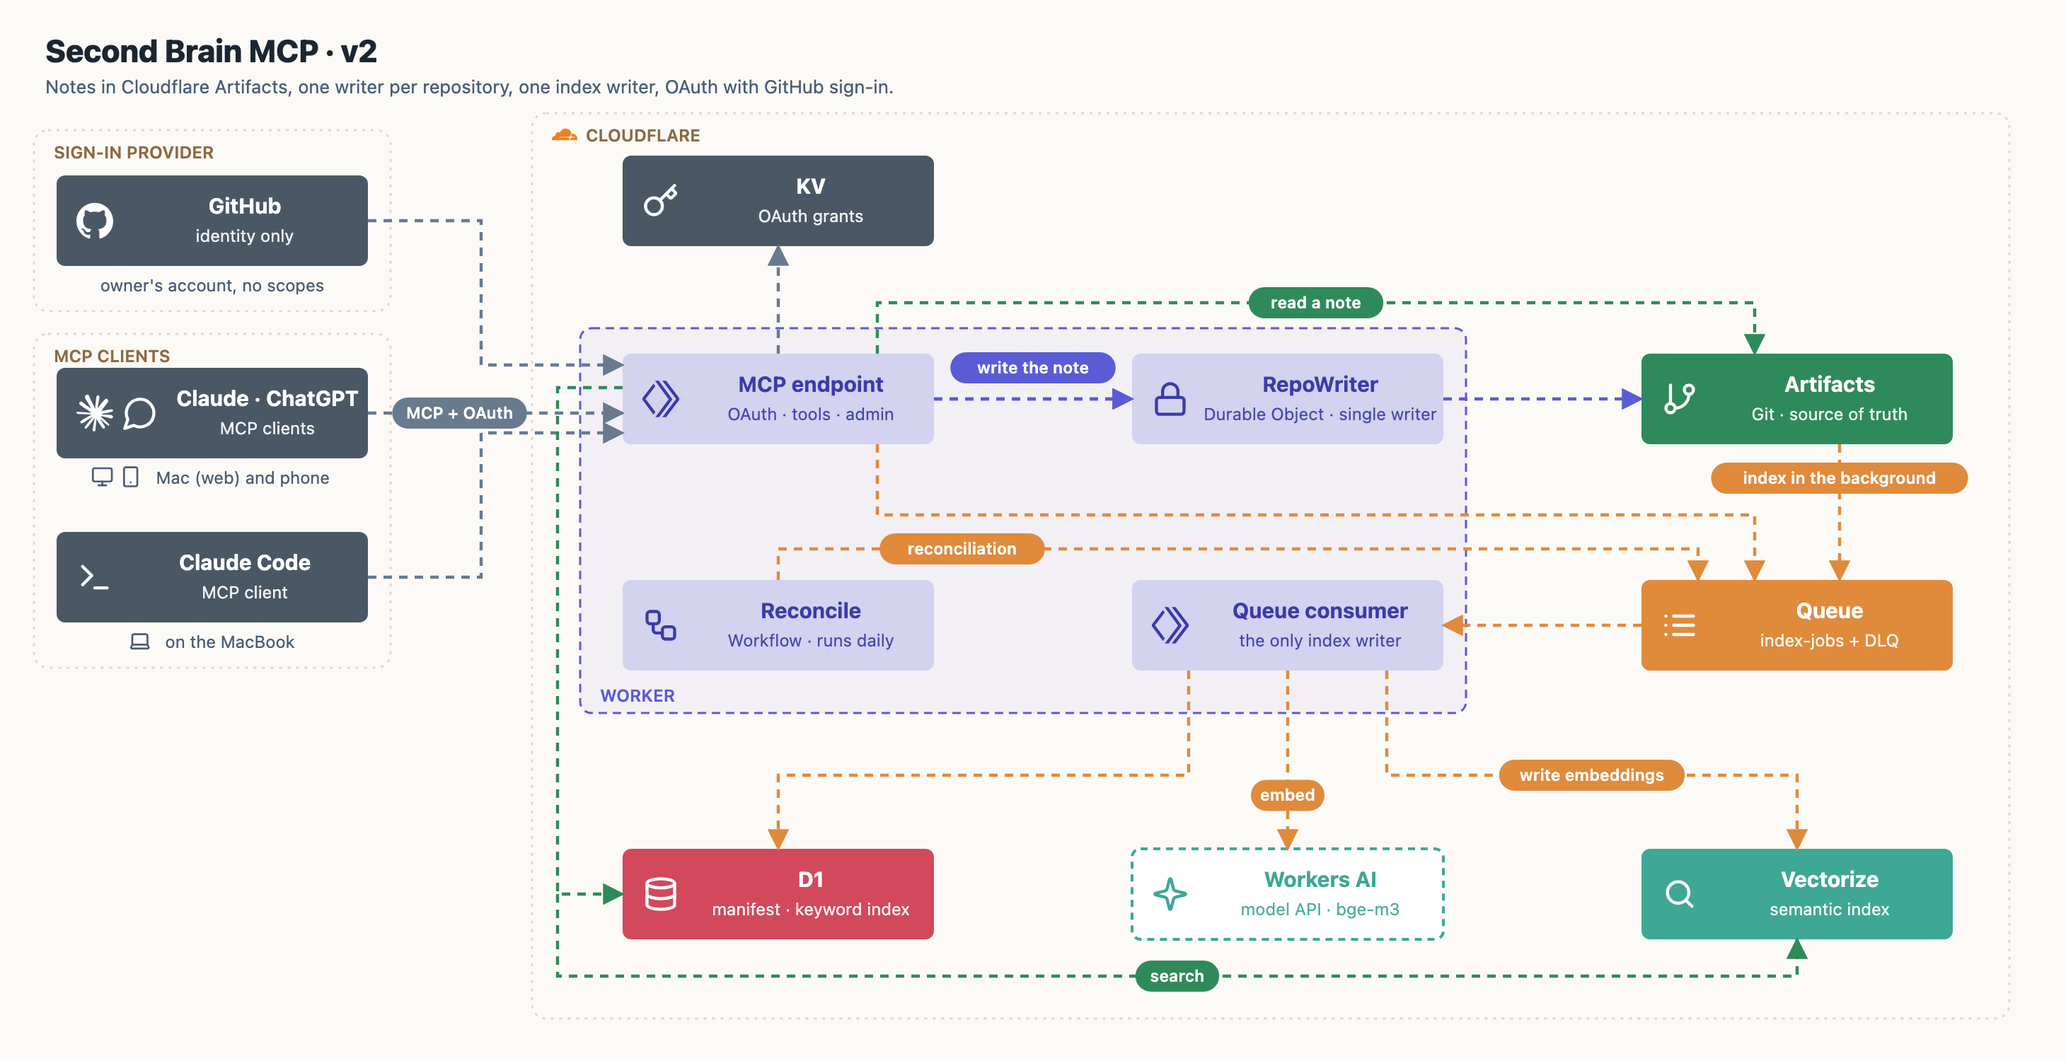
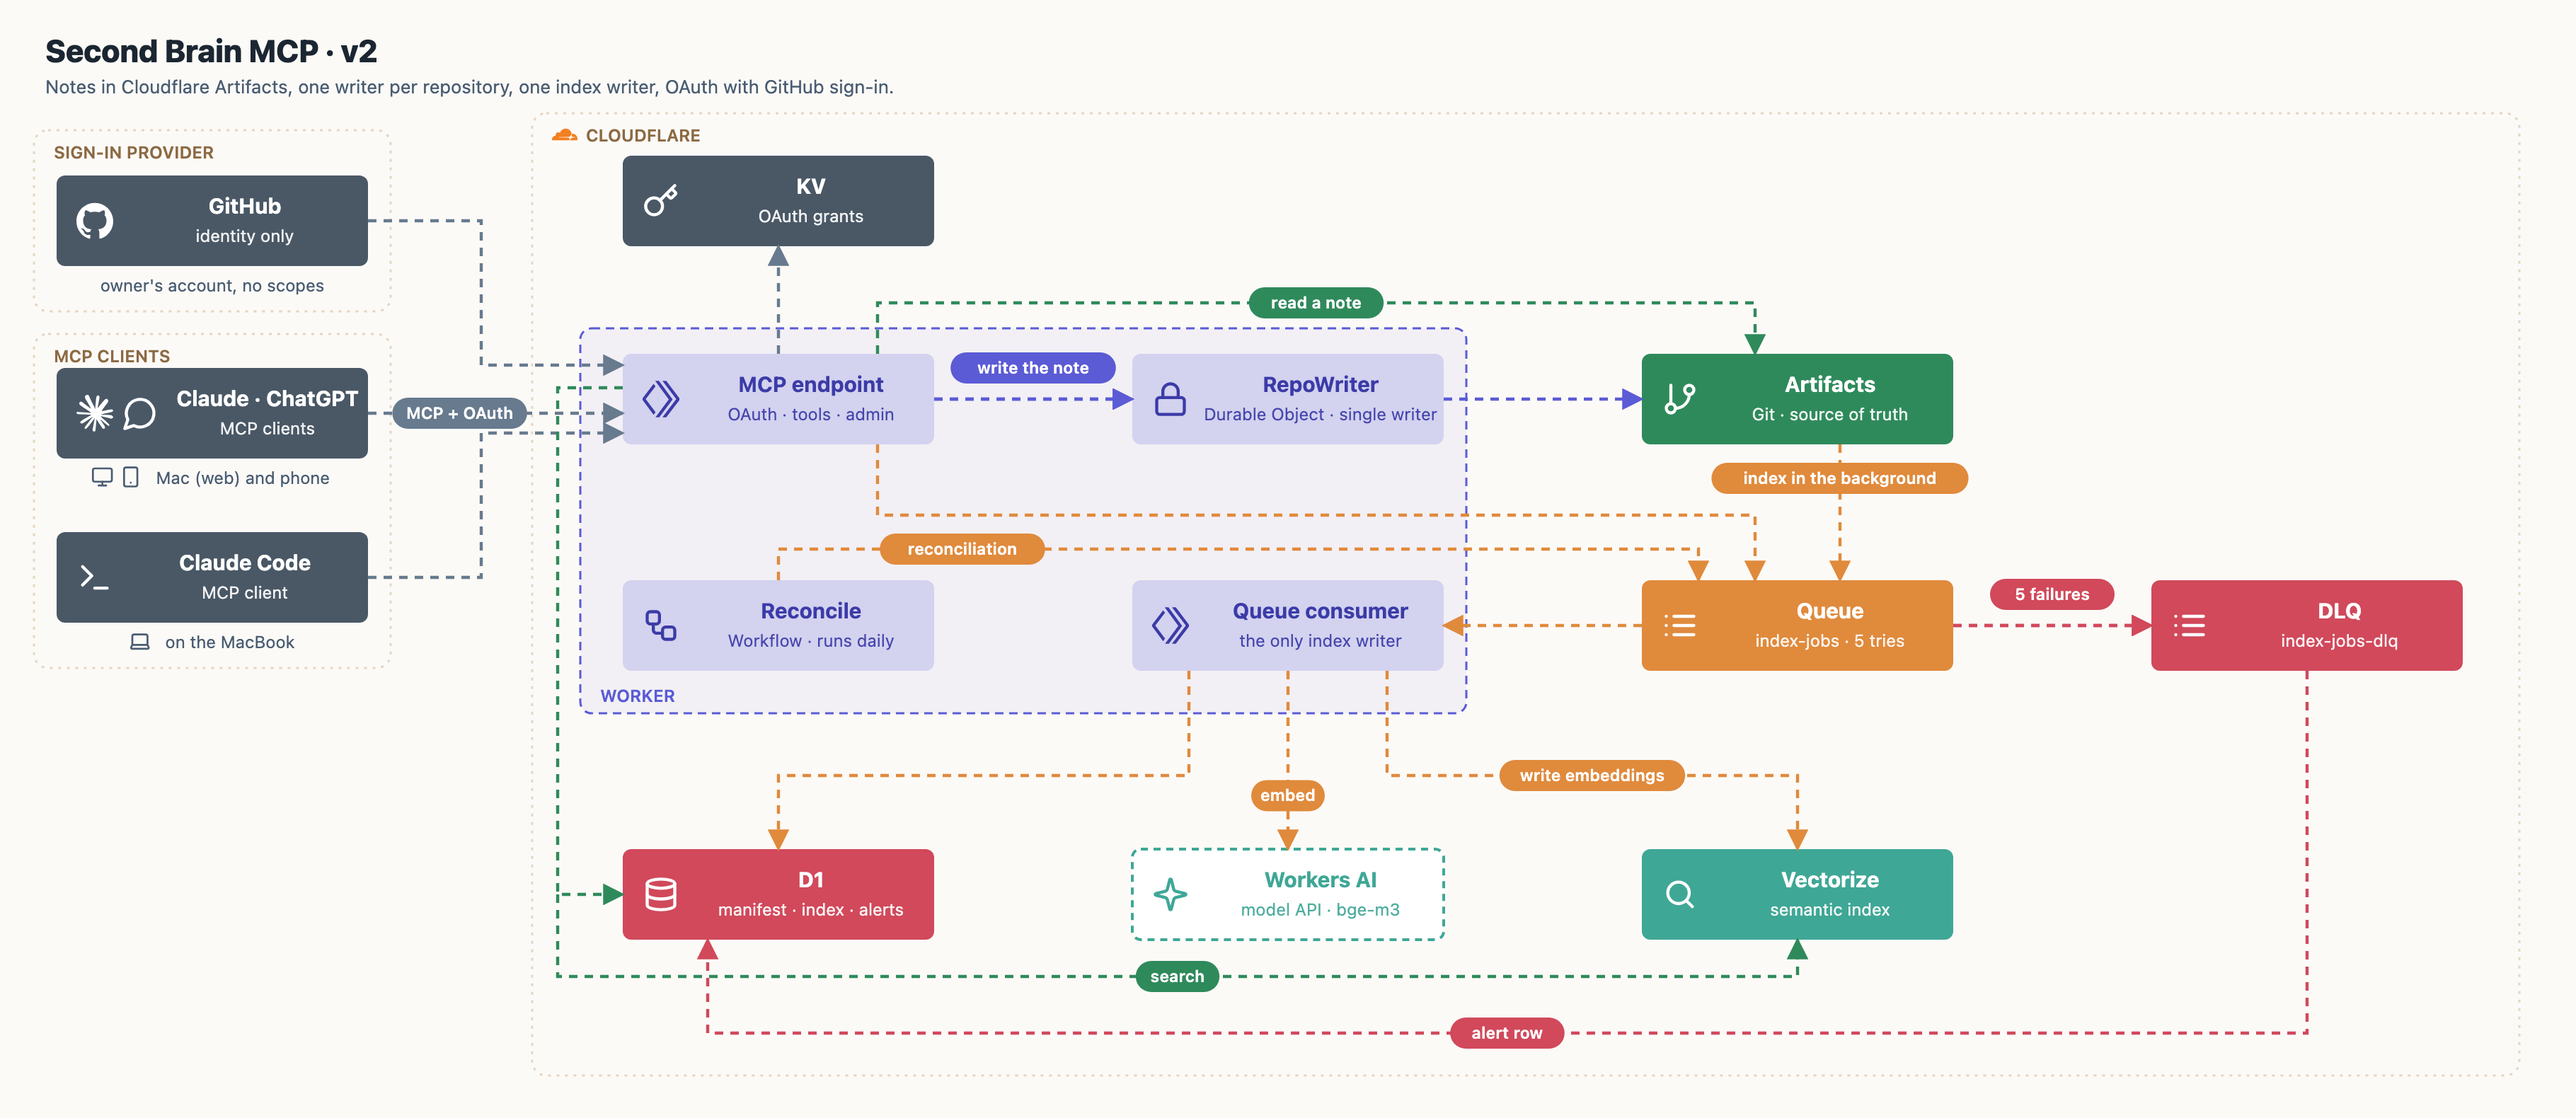
Architecture v2: show the DLQ and the alert row it writes to D1
Claude-Session: https://claude.ai/code/session_0171UdtAm1pRxwuhTFhKDhrM

diff --git a/docs/architecture/draw.py b/docs/architecture/draw.py
@@ -62,7 +62,7 @@ def devices(cx, y, names, label):
     t = "".join(f'<g transform="translate({x + i*20},{y - 13}) scale(0.67)" fill="none" stroke="{MUTED}" stroke-width="2" stroke-linecap="round" stroke-linejoin="round">{LUCIDE[n]}</g>' for i, n in enumerate(names))
     return t + f'<text x="{x + iw + 6}" y="{y}" class="c">{html.escape(label)}</text>'
 
-FLOW = dict(auth=LINE, write="#5B5BD6", index="#E08A3C", read="#2F8A5B")
+FLOW = dict(auth=LINE, write="#5B5BD6", index="#E08A3C", read="#2F8A5B", fail="#D1495B")
 FLOW_MARKERS = "".join(f'<marker id="m-{k}" viewBox="0 0 10 10" refX="9" refY="5" markerWidth="7" markerHeight="7" orient="auto-start-reverse"><path d="M0,0 L10,5 L0,10 z" fill="{v}"/></marker>' for k, v in FLOW.items())
 
 def legend(x, y, items):
@@ -123,13 +123,13 @@ open(os.path.join(os.path.dirname(__file__), "v1.svg"), "w").write(svg(1120, 650
 
 # ---------- v2 ----------
 # Columns: outside (A) | Worker & runners (B) | storage & queue (C) | indexes & AI (D)
-A, X1, X2, X3 = 40, 440, 800, 1160
+A, X1, X2, X3, X4 = 40, 440, 800, 1160, 1520
 # Read it like text, left to right, row by row:
 #   row 1, the write: Worker -> RepoWriter -> Artifacts
 #   row 2, indexing in the background: Workflow (daily repair) -> Queue
 #   row 3, the indexes: D1, Workers AI (embeddings), Vectorize
 v2 = []
-v2.append('<rect x="376" y="80" width="1044" height="640" rx="10" class="g"/>' + f'<path transform="translate(390,86) scale(0.75)" d="{BRANDS["cloudflare"]}" fill="#F38020"/>' + '<text x="414" y="100" class="gl">CLOUDFLARE</text>')
+v2.append('<rect x="376" y="80" width="1404" height="680" rx="10" class="g"/>' + f'<path transform="translate(390,86) scale(0.75)" d="{BRANDS["cloudflare"]}" fill="#F38020"/>' + '<text x="414" y="100" class="gl">CLOUDFLARE</text>')
 # GitHub is only the identity provider: its own group, apart from the MCP clients
 v2.append('<rect x="24" y="92" width="252" height="128" rx="10" class="g"/><text x="38" y="112" class="gl">SIGN-IN PROVIDER</text>')
 v2.append(box(A, 124, "GitHub", "identity only", "slate", "owner's account, no scopes", icons=("github",)))
@@ -148,9 +148,10 @@ v2.append(box(X3, 250, "Artifacts", "Git · source of truth", "green", icons=("b
 # row 2: indexing
 v2.append(box(X1, 410, "Reconcile", "Workflow · runs daily", "indigo", icons=("workflow",), kind="part"))
 v2.append(box(X2, 410, "Queue consumer", "the only index writer", "indigo", icons=("workers",), kind="part"))
-v2.append(box(X3, 410, "Queue", "index-jobs + DLQ", "orange", icons=("queue",)))
+v2.append(box(X3, 410, "Queue", "index-jobs · 5 tries", "orange", icons=("queue",)))
 # row 3: the indexes, and the model the consumer calls
-v2.append(box(X1, 600, "D1", "manifest · keyword index", "red", icons=("database",)))
+v2.append(box(X4, 410, "DLQ", "index-jobs-dlq", "red", icons=("queue",)))
+v2.append(box(X1, 600, "D1", "manifest · index · alerts", "red", icons=("database",)))
 v2.append(box(X2, 600, "Workers AI", "model API · bge-m3", "teal", icons=("sparkles",), kind="api"))
 v2.append(box(X3, 600, "Vectorize", "semantic index", "teal", icons=("search",)))
 # sign-in and MCP calls
@@ -171,10 +172,14 @@ v2.append(arrow([(1160, 442), (1020, 442)], flow="index"))
 v2.append(arrow([(840, 474), (840, 548), (550, 548), (550, 600)], flow="index"))
 v2.append(arrow([(910, 474), (910, 600)], "embed", at=0.7, flow="index"))
 v2.append(arrow([(980, 474), (980, 548), (1270, 548), (1270, 600)], "write embeddings", at=0.5, flow="index"))
+# a job that fails 5 times goes to the DLQ; its consumer records an alert in D1
+v2.append(arrow([(1380, 442), (1520, 442)], flow="fail"))
+v2.append(arrow([(1380, 442), (1520, 442)], "5 failures", flow="fail", dy=-22))
+v2.append(arrow([(1630, 474), (1630, 730), (500, 730), (500, 664)], "alert row", at=0.5, flow="fail"))
 # read and search
 v2.append(arrow([(620, 250), (620, 214), (1240, 214), (1240, 250)], "read a note", at=0.5, flow="read"))
 v2.append(arrow([(440, 274), (394, 274), (394, 632), (440, 632)], flow="read"))
 v2.append(arrow([(394, 632), (394, 690), (1270, 690), (1270, 664)], "search", flow="read"))
 
-open(os.path.join(os.path.dirname(__file__), "v2.svg"), "w").write(svg(1460, 750, "Second Brain MCP · v2", "Notes in Cloudflare Artifacts, one writer per repository, one index writer, OAuth with GitHub sign-in.", "".join(v2)))
+open(os.path.join(os.path.dirname(__file__), "v2.svg"), "w").write(svg(1820, 790, "Second Brain MCP · v2", "Notes in Cloudflare Artifacts, one writer per repository, one index writer, OAuth with GitHub sign-in.", "".join(v2)))
 print("ok")
